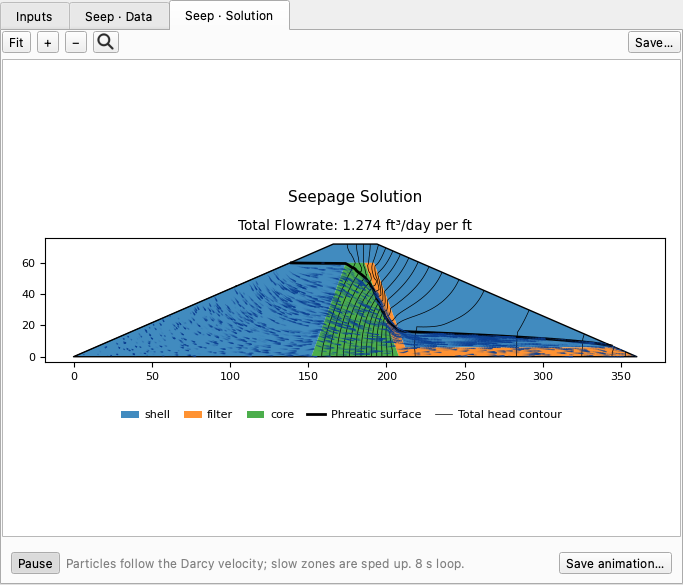
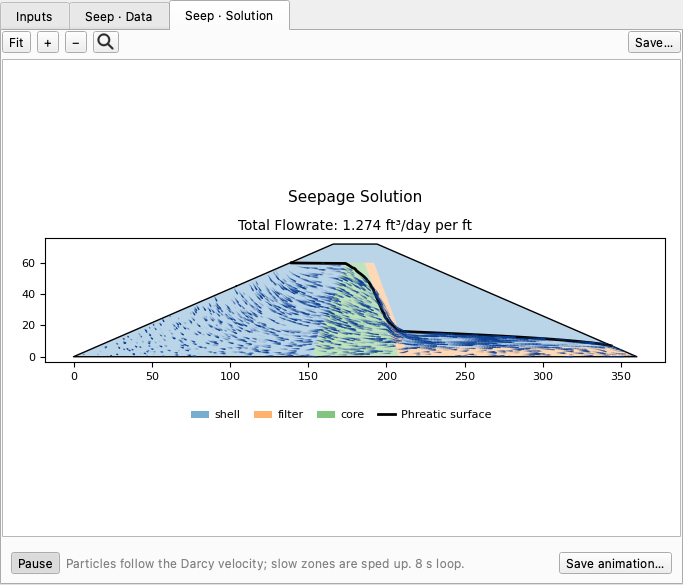
Flow trace docs: the streaks stand out best over pale zones; the page says to lower Fill opacity and untick Contour lines and Flow lines, and its still shows that (opacity 0.3, both off). Studio keeps the user's fill as set (Norm 794a: the user controls the opacity)
Claude-Session: https://claude.ai/code/session_01XjjT2aBxw8gY7EFdpoUcpj

diff --git a/tools/capture_studio_screenshots.py b/tools/capture_studio_screenshots.py
@@ -1544,8 +1544,11 @@ def capture_seep_flow_trace():
     canvas.render_now()
     _settle()
     panel = mw._display_panels[canvas]
-    # Flow lines off, so the streaks read on their own in a page-sized still.
+    # Flow lines and contour lines off and the zones paler, so the streaks read on
+    # their own in a page-sized still (the page tells the reader to do the same).
     panel.flowlines.setChecked(False)
+    panel.contour_lines.setChecked(False)
+    panel.alpha.setValue(0.3)
     _settle()
     canvas.render_now()
     _settle()
@@ -1569,6 +1572,8 @@ def capture_seep_flow_trace():
     mw.view_tabs.grab().save(out)
     panel.flow_trace.setChecked(False)
     panel.flowlines.setChecked(True)
+    panel.contour_lines.setChecked(True)
+    panel.alpha.setValue(0.85)
     _settle()
     shutil.rmtree(tmp, ignore_errors=True)
     return out

diff --git a/docs/studio/analysis.md b/docs/studio/analysis.md
@@ -572,7 +572,9 @@ view shows (contours, flow lines, the phreatic surface) and loops every 8 second
 without a visible seam. Zoom and pan work while it plays. It pauses while another
 tab is shown or the window is minimized, and resumes where it left off. **Trace
 particles** sets the streak density: about how many particles are lit at once
-(1,500 by default). Unticking the box removes the streaks.
+(1,500 by default). Unticking the box removes the streaks. The streaks stand out
+best over pale zones: lower **Fill opacity** (0.3 in the figure below), and untick
+**Contour lines** and **Flow lines** to show the streaks on their own.
 
 While the trace is on, a play bar sits below the plot:
 
